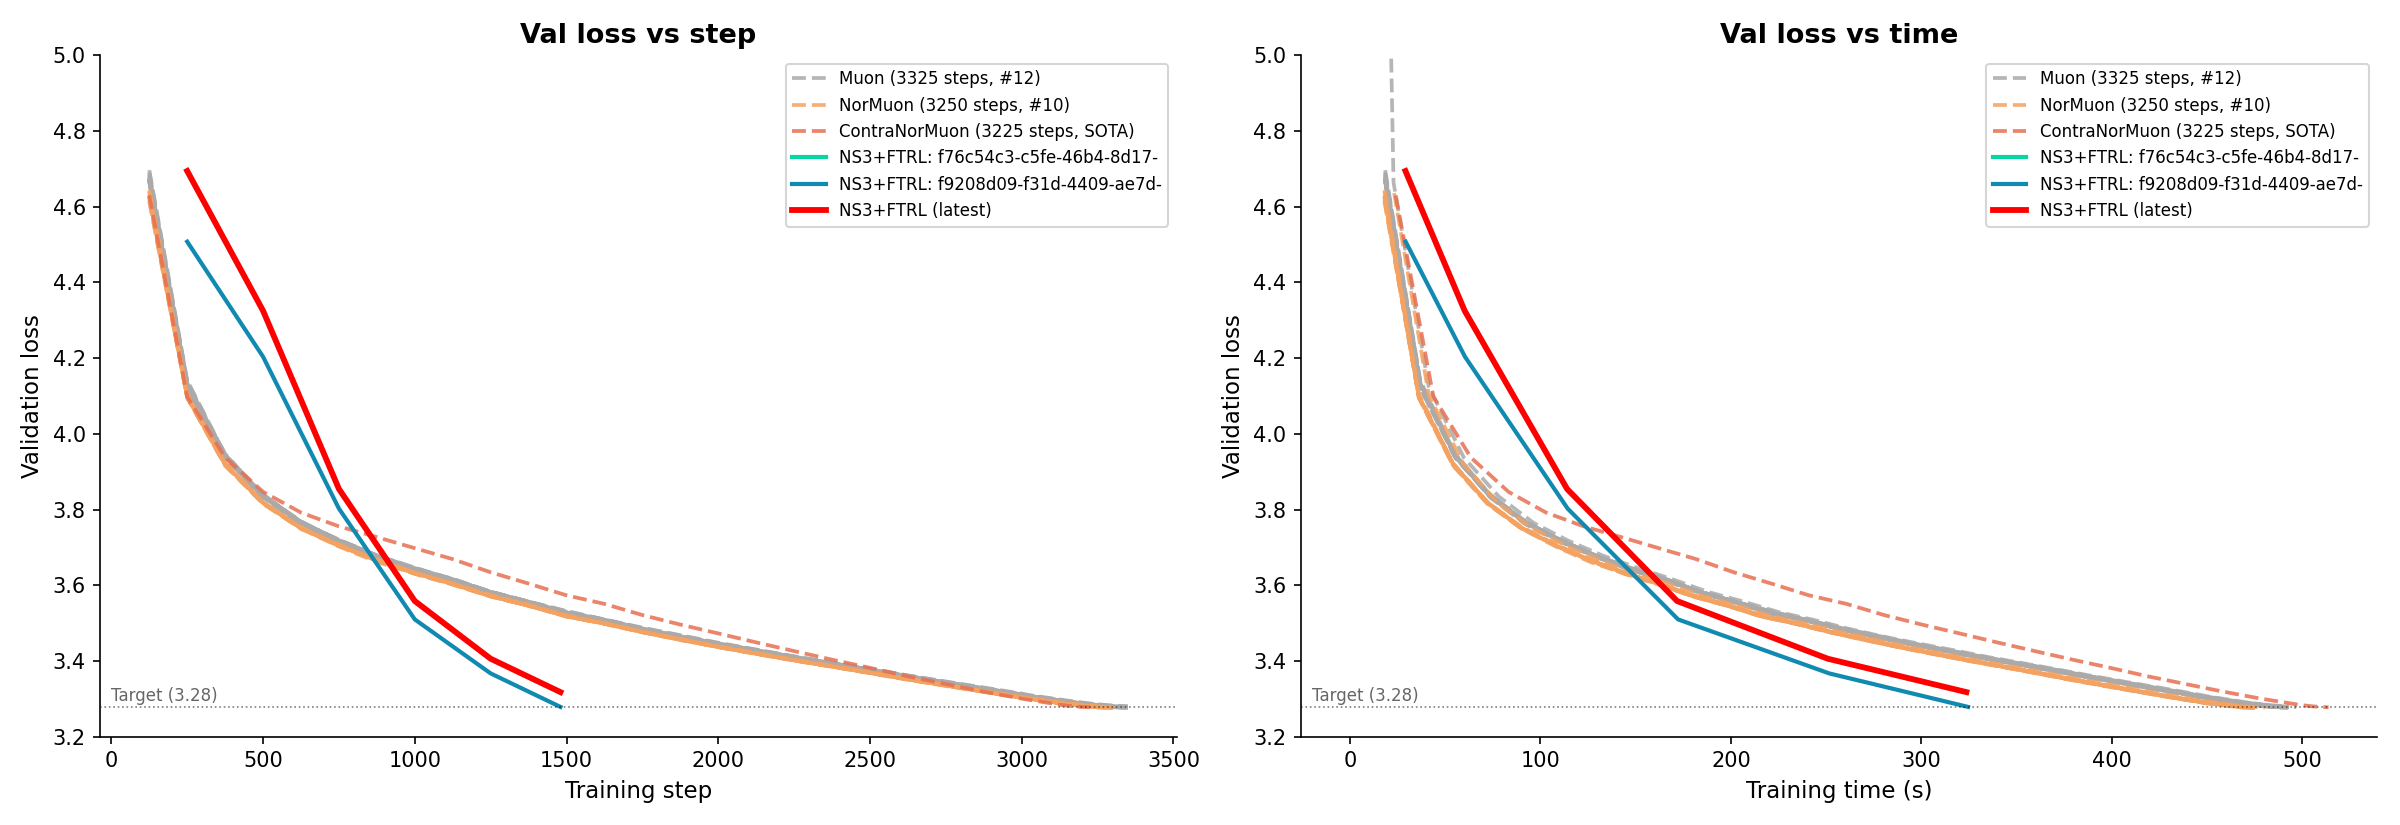
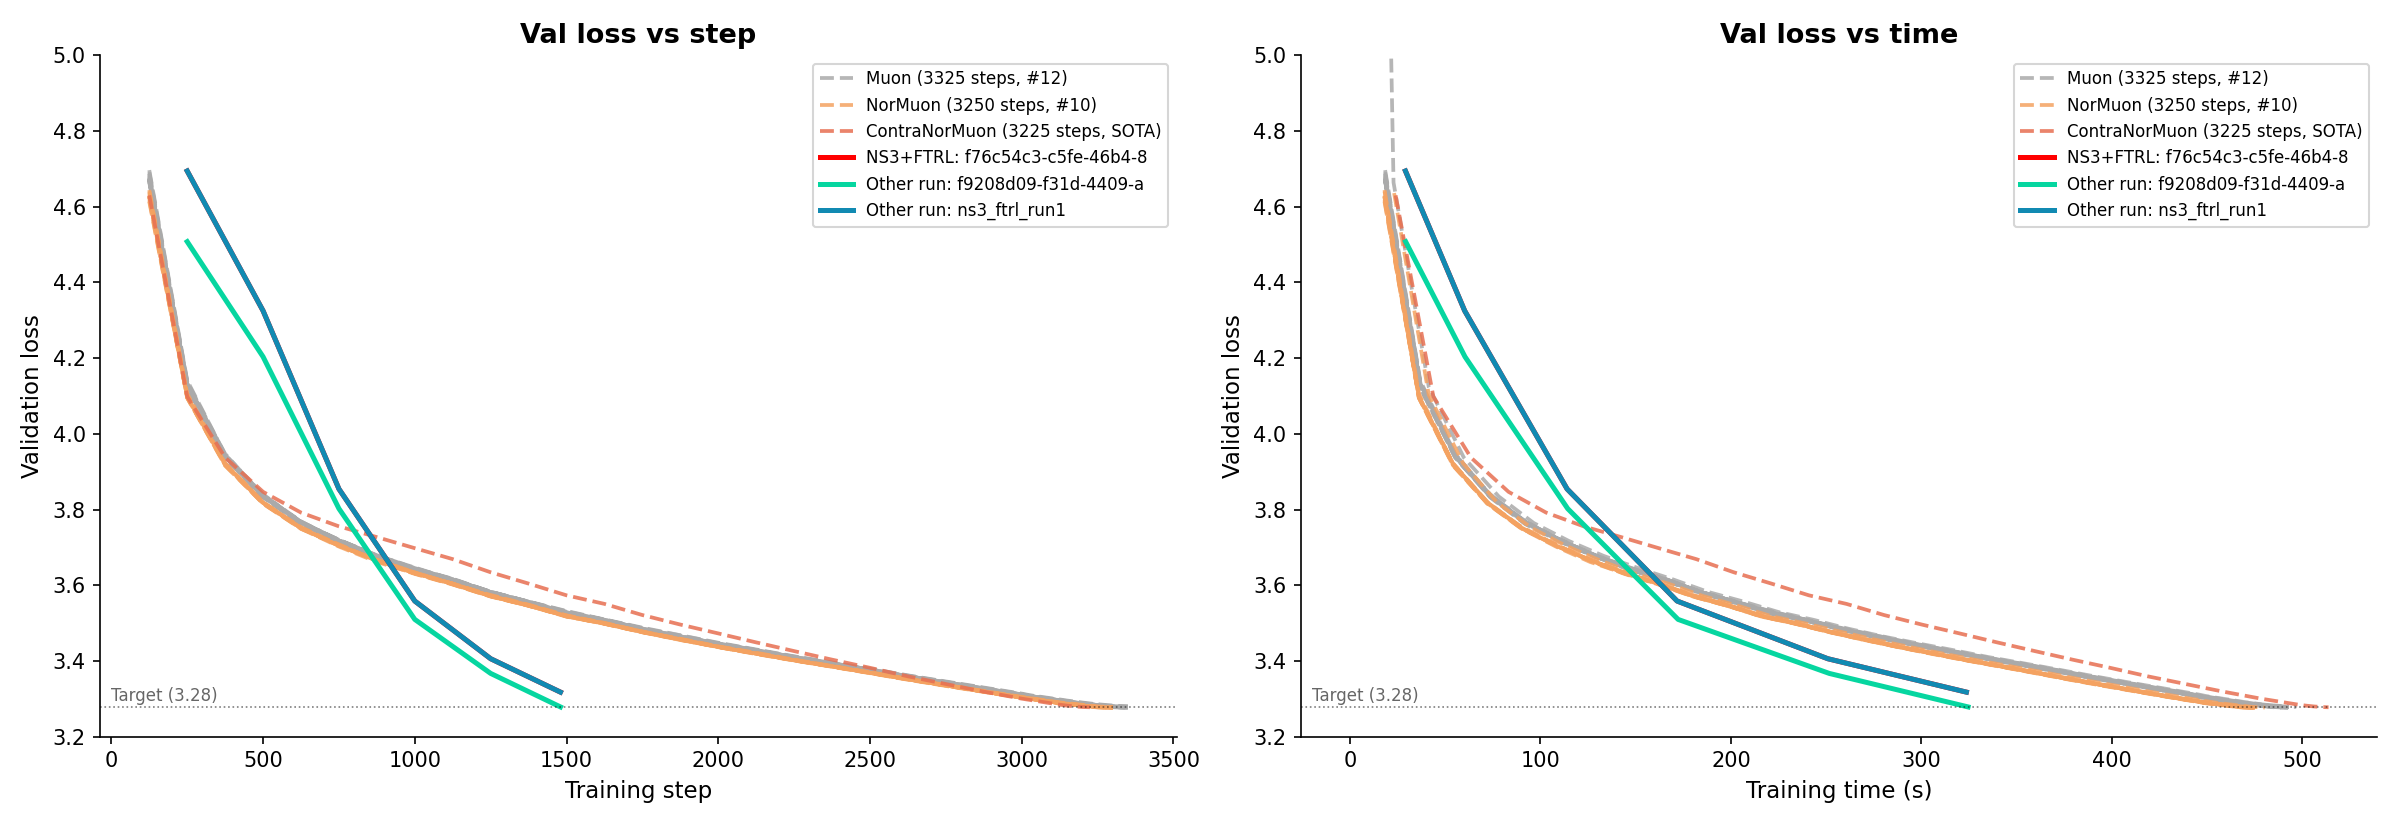
Fix plot labeling: distinguish NS3+FTRL runs from other experiment runs

diff --git a/records/muon_speedrun_results/plot.py b/records/muon_speedrun_results/plot.py
@@ -65,17 +65,24 @@ baselines = {
 
 runs_dir = HERE / "runs"
 all_runs = sorted(runs_dir.glob("**/*.txt"), key=lambda p: p.stat().st_mtime) if runs_dir.exists() else []
-# Deduplicate by content hash, keep most recent copy
+# Deduplicate by content hash, keep most recent mtime copy
 seen, my_runs = set(), []
 for p in reversed(all_runs):
     h = hash(p.read_bytes())
     if h not in seen:
         seen.add(h)
         my_runs.insert(0, p)
-most_recent = my_runs[-1] if my_runs else None
+
+# Label runs: check whether they contain our NS3+FTRL code
+def run_label(path):
+    text = path.read_text()
+    if "polar_express_with_ftrl" in text:
+        return f"NS3+FTRL: {path.stem[:20]}"
+    else:
+        return f"Other run: {path.stem[:20]}"
 
 baseline_colors = ["#AAAAAA", "#F4A261", "#E76F51"]  # grey, warm orange, coral-red
-my_colors       = ["#06D6A0", "#118AB2", "#FFD166", "#EF476F"]  # teal, blue, yellow, pink
+my_colors       = ["#FF0000", "#06D6A0", "#118AB2", "#FFD166"]  # red first for NS3+FTRL
 
 def plot_segments(ax, xs, ys, color, linewidth, linestyle, alpha, label):
     """Plot segments split on x resets (x==0) to avoid spurious connecting lines."""
@@ -115,15 +122,13 @@ for ax, xlabel, x_key in [
                       linestyle="--", alpha=0.85, label=label)
 
     for i, run_path in enumerate(my_runs):
-        is_latest = (run_path == most_recent)
-        color = "#FF0000" if is_latest else my_colors[i % len(my_colors)]
-        lw    = 2.8 if is_latest else 2.0
-        label = f"NS3+FTRL (latest)" if is_latest else f"NS3+FTRL: {run_path.stem[:24]}"
+        color = my_colors[i % len(my_colors)]
+        label = run_label(run_path)
         steps, losses, times = parse_log(run_path)
         if not steps:
             continue
         xs = steps if x_key == "steps" else times
-        plot_segments(ax, xs, losses, color=color, linewidth=lw,
+        plot_segments(ax, xs, losses, color=color, linewidth=2.4,
                       linestyle="-", alpha=1.0, label=label)
 
     ax.set_ylim(3.2, 5.0)
